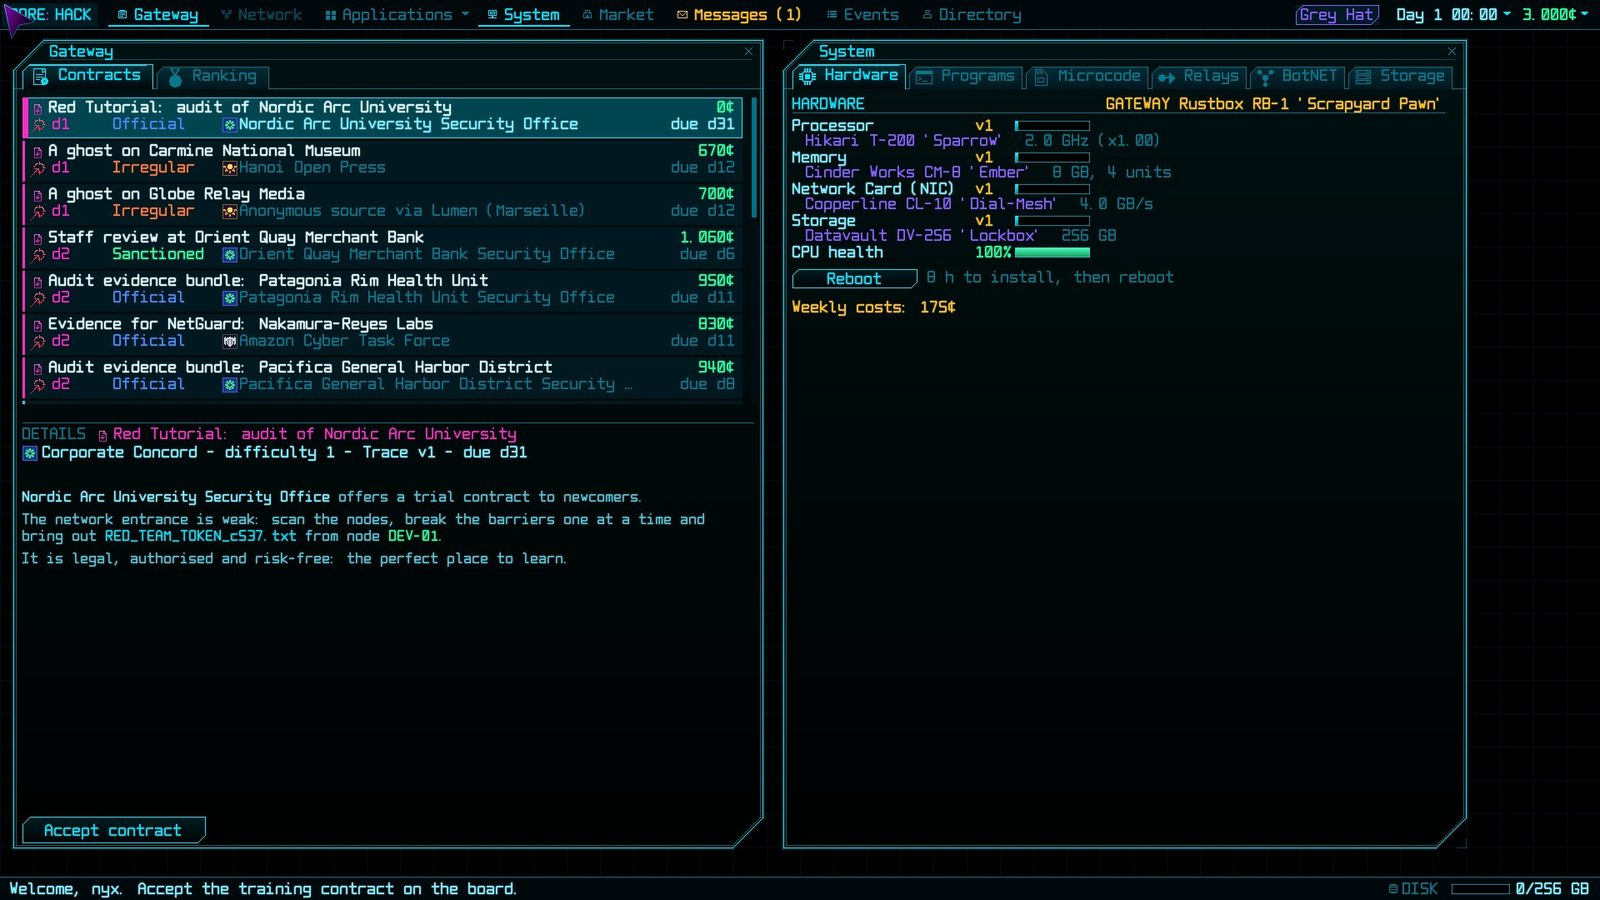
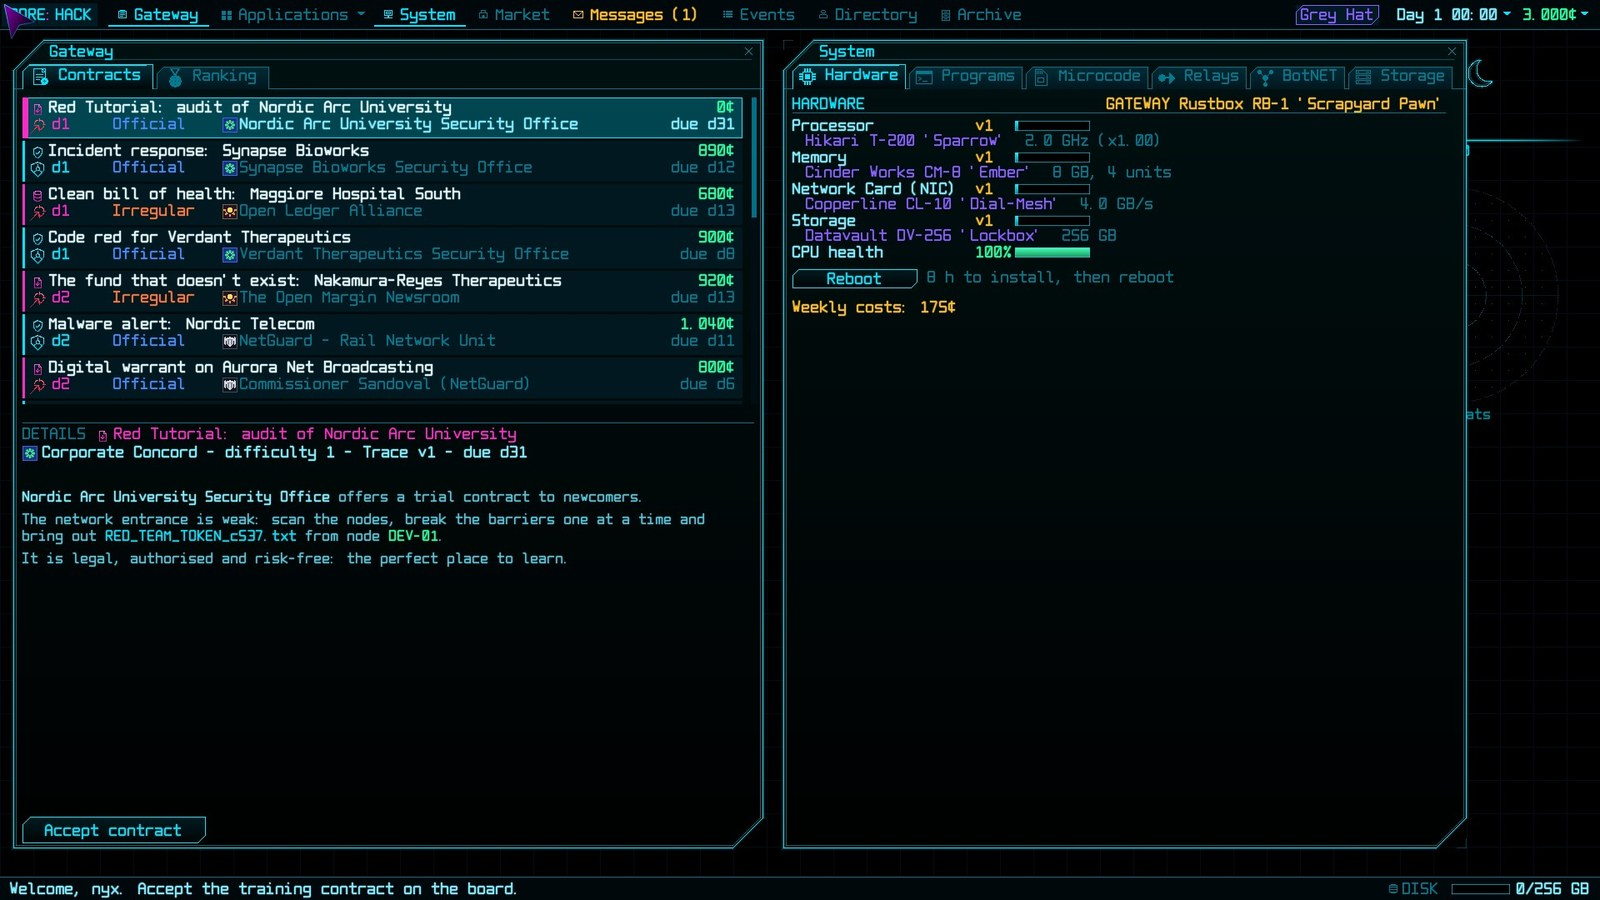
Add files via upload

diff --git a/index.html b/index.html
@@ -491,7 +491,7 @@ h2 .ic { width: 0.78em; height: 0.78em; color: var(--cyan); margin-right: 0.38em
           <a class="btn alt" href="#manuals"><span data-l="it">Manuali</span><span data-l="en">Manuals</span></a>
           <a class="btn" href="#support"><span data-l="it">Sostieni</span><span data-l="en">Support</span></a>
         </div>
-        <p class="ver"><span data-l="it">Versione</span><span data-l="en">Version</span> <span class="vnum">2.11.1</span> <span class="beta">BETA</span> · Linux · Windows · macOS · IT EN FR</p>
+        <p class="ver"><span data-l="it">Versione</span><span data-l="en">Version</span> <span class="vnum">2.13.0</span> <span class="beta">BETA</span> · Linux · Windows · macOS · IT EN FR</p>
       </div>
       <div class="win">
           <i class="ion-l" aria-hidden="true"></i>
@@ -893,7 +893,7 @@ h2 .ic { width: 0.78em; height: 0.78em; color: var(--cyan); margin-right: 0.38em
           <i class="ion-l" aria-hidden="true"></i>
           <div class="bar"><span>corehack-server</span><span>:7341</span></div>
           <div class="term small">$ ./corehack-server
-<span class="d">corehack-server 2.10.2 - Guido Cauli</span>
+<span class="d">corehack-server 2.13.0 - Guido Cauli</span>
 certificate fingerprint: 04:0E:E8:57:…:7A
 listening on :7341</div>
         </div>
@@ -958,14 +958,15 @@ listening on :7341</div>
       <div class="chnum">08</div>
       <h2><svg class="ic" aria-hidden="true"><use href="#i-manuals"/></svg><span data-l="it">Manuali</span><span data-l="en">Manuals</span></h2>
       <div class="rule"></div>
-      <p data-l="it">In PDF, aggiornati alla versione 2.10.2.</p>
-      <p data-l="en">PDF manuals for version 2.10.2.</p>
+      <p data-l="it">In PDF, aggiornati alla versione 2.13.0.</p>
+      <p data-l="en">PDF manuals for version 2.13.0.</p>
       <div class="docs">
         <a class="doc" href="CoreHack-Manual.pdf" target="_blank" rel="noopener"><div class="t"><svg class="ic" aria-hidden="true"><use href="#i-doc"/></svg>Player's Manual</div><div class="m">English</div></a>
         <a class="doc" href="CoreHack-Advanced-Manual.pdf" target="_blank" rel="noopener"><div class="t"><svg class="ic" aria-hidden="true"><use href="#i-doc"/></svg>Advanced Manual</div><div class="m">English</div></a>
         <a class="doc" href="CoreHack-Manuale.pdf" target="_blank" rel="noopener"><div class="t"><svg class="ic" aria-hidden="true"><use href="#i-doc"/></svg>Manuale del giocatore</div><div class="m">Italiano</div></a>
         <a class="doc" href="CoreHack-Manuale-Avanzato.pdf" target="_blank" rel="noopener"><div class="t"><svg class="ic" aria-hidden="true"><use href="#i-doc"/></svg>Manuale avanzato</div><div class="m">Italiano</div></a>
         <a class="doc" href="CoreHack-Manuel.pdf" target="_blank" rel="noopener"><div class="t"><svg class="ic" aria-hidden="true"><use href="#i-doc"/></svg>Manuel du joueur</div><div class="m">Français</div></a>
+        <a class="doc" href="CoreHack-Manuel-Avance.pdf" target="_blank" rel="noopener"><div class="t"><svg class="ic" aria-hidden="true"><use href="#i-doc"/></svg>Manuel avancé</div><div class="m">Français</div></a>
         <a class="doc" href="CoreHack-Manuale-Server.pdf" target="_blank" rel="noopener"><div class="t"><svg class="ic" aria-hidden="true"><use href="#i-doc"/></svg>Manuale del server</div><div class="m">Italiano</div></a>
       </div>
     </section>
@@ -977,6 +978,16 @@ listening on :7341</div>
       <div class="rule"></div>
       <div class="log" id="news-log" aria-live="polite">
         <article>
+          <h4>2.13.0</h4>
+          <ul data-l="it"><li>WebLens: il browser per i siti delle aziende, con area riservata, archivio FTP e contratti sui siti.</li><li>Città ad anelli: ogni azienda ha il suo anello, e le notizie raccontano la vita dal Primo Anello alla Fossa.</li><li>Contratti speculari: due fazioni vogliono qualcosa dalla stessa azienda, e il doppio gioco paga finché non ti scoprono.</li><li>La trama del Broker e della Rete Nera più profonda, l'origine dell'Id riscritta, i Guardiani che si presentano, i file chiave nello Storage.</li><li>Tre nuovi brani per la radio (koto e shakuhachi, arpa celtica e low whistle, piano elettrico e violoncello).</li><li>L'Archivio nella barra in alto, il rapporto che compare riga per riga, i contatti dei gateway segreti in cima alla Rubrica.</li><li>Nuovo manuale avanzato in francese.</li></ul>
+          <ul data-l="en"><li>WebLens: a browser for company websites, with reserved areas, FTP archives and contracts on the sites.</li><li>Ring cities: every company lives in its ring, and the news tell life from the First Ring down to the Pit.</li><li>Mirror contracts: two factions want something from the same company, and the double game pays until you're found out.</li><li>A deeper story for the Broker and the Black Net, a rewritten origin of the Id, Guardians who introduce themselves, key files in the Storage.</li><li>Three new radio tracks (koto and shakuhachi, Celtic harp and low whistle, electric piano and cello).</li><li>The Archive in the top bar, a report that appears line by line, secret gateway contacts at the top of the Directory.</li><li>New French advanced manual.</li></ul>
+        </article>
+        <article>
+          <h4>2.12.0</h4>
+          <ul data-l="it"><li>Falle e BreachKit: una debolezza di una protezione in tutta un'azienda, da sfruttare di colpo e con poco rumore.</li><li>ExploitForge e gli esperti delle fazioni: falle forgiate dai campioni o comprate su commissione.</li><li>Rubrica a grafo: le persone, chi conoscono e come contattarle; volti per tutti i personaggi.</li><li>Informazioni false: esche, credenziali preparate e voci da verificare.</li></ul>
+          <ul data-l="en"><li>Flaws and BreachKit: a weakness in a protection across a whole company, exploited at once and quietly.</li><li>ExploitForge and the factions' experts: flaws forged from samples or bought to order.</li><li>A web of acquaintances in the Directory: people, who they know and how to reach them; faces for every character.</li><li>False information: decoys, prepared credentials and rumours to verify.</li></ul>
+        </article>
+        <article>
           <h4>2.11.1</h4>
           <ul data-l="it"><li>Fuori dalle missioni, i log gialli e rossi compaiono come notifiche in alto a destra quando la finestra Eventi è chiusa; entrano ed escono in dissolvenza, nella forma del tema.</li></ul>
           <ul data-l="en"><li>Outside missions, yellow and red log lines appear as notifications at the top right when the Events window is closed; they fade in and out, in the theme's shape.</li></ul>
@@ -985,16 +996,6 @@ listening on :7341</div>
           <h4>2.11.0</h4>
           <ul data-l="it"><li>Cerbero, i Frammenti e ION ora fanno parte di una sola storia: al capitolo 4 di ogni arco tieni l'originale della parte di Cerbero e consegni una copia.</li><li>Dopo il blocco delle alleanze arrivano il Recupero, l'Attacco e una nuova missione segreta sulle orme di Orfeo; le IA delle fazioni si fanno vive più avanti, una alla volta.</li><li>Una barra viola sotto il nodo mostra quanto resta dell'accecamento dell'IDS; in bacheca due icone sostituiscono RED e BLUE.</li></ul>
           <ul data-l="en"><li>Cerberus, the Shards and ION are now one story: in chapter 4 of every arc you keep the original part of Cerberus and hand over a copy.</li><li>After the alliances lock come the Recovery, the Attack and a new secret mission in Orfeo's footsteps; the faction AIs show up later, one at a time.</li><li>A violet bar under the node shows how much IDS blinding is left; on the board two icons replace RED and BLUE.</li></ul>
-        </article>
-        <article>
-          <h4>2.10.2</h4>
-          <ul data-l="it"><li>La sorveglianza presa con un contratto non si perde più nei giorni del lavoro.</li><li>Il resoconto mostra l'aumento di sorveglianza reale.</li><li>Ogni contratto ha un'icona per il tipo di lavoro.</li><li>Manuale del giocatore e manuale avanzato anche in inglese.</li><li>Banche: il titolare derubato se ne accorge entro 24 ore, e c'è qualche ora di grazia per cancellare il movimento.</li><li>Bollette e scadenze passano fra le 2 e le 6 del mattino.</li></ul>
-          <ul data-l="en"><li>Surveillance earned on a contract is no longer lost over the days it takes.</li><li>The report shows the actual surveillance increase.</li><li>Every contract has an icon for the kind of job.</li><li>Player's and advanced manuals now in English too.</li><li>Banks: a robbed holder notices within 24 hours, with a few hours' grace to wipe the transaction.</li><li>Bills and deadlines fall between 2 and 6 in the morning.</li></ul>
-        </article>
-        <article>
-          <h4>2.10.1</h4>
-          <ul data-l="it"><li>Tutorial nuovi: Operatori e indagini, Fascicoli e persone.</li><li>Devour e DarkHole corrodono l'host in glitch fino a farlo sparire.</li><li>Gli operatori arrestati tornano con un nome nuovo.</li></ul>
-          <ul data-l="en"><li>New tutorials: Operators and investigations, Dossiers and people.</li><li>Devour and DarkHole corrode the host in glitches until it vanishes.</li><li>Arrested operators come back under a new name.</li></ul>
         </article>
       </div>
     </section>
@@ -1054,7 +1055,7 @@ listening on :7341</div>
 <footer>
   <div class="wrap">
     <span class="bye"><span data-l="it">Buona fortuna, operatore.</span><span data-l="en">Good luck, operator.</span></span>
-    <span>Core:Hack: Blackout 2.10.2 - Guido Cauli &lt;<span id="mail">guido.cauli@gmail.com</span>&gt;<button class="copy" type="button" id="copymail" data-it="copia" data-en="copy">copia</button></span>
+    <span>Core:Hack: Blackout 2.13.0 - Guido Cauli &lt;<span id="mail">guido.cauli@gmail.com</span>&gt;<button class="copy" type="button" id="copymail" data-it="copia" data-en="copy">copia</button></span>
   </div>
 </footer>
 
